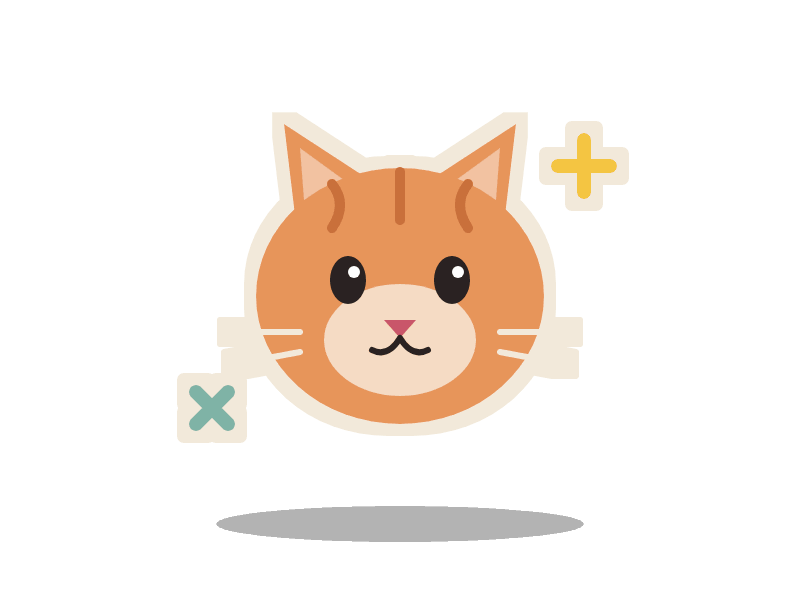
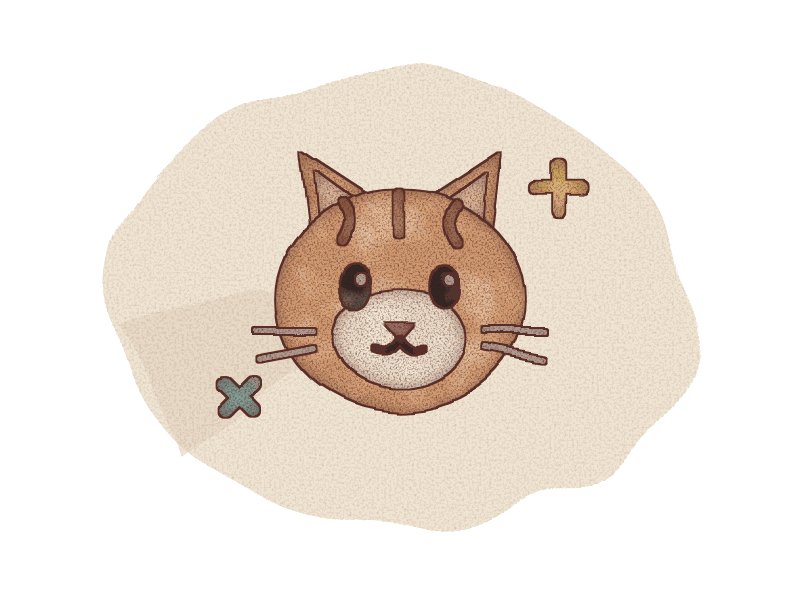
Hand-drawn style covers, a hackathon winner badge, two-column Arts on phones
The placeholder covers are redrawn in a hand-drawn look (ink outlines,
watercolour fills, a paper blob behind each). Award projects get a
"Hackathon winner" badge on the corner of their cover, one PNG Mami can
replace. The Short About's Arts row is two to a row on phones.

Claude-Session: https://claude.ai/code/session_01HxKcS5wnQzvR66vCB9wedF

diff --git a/assets/css/styles.css b/assets/css/styles.css
@@ -1107,6 +1107,7 @@ main iframe {
 }
 
 .card-cover {
+  position: relative;
   display: grid;
   place-items: center;
   aspect-ratio: 4 / 3;
@@ -1133,6 +1134,19 @@ main iframe {
 
 .card-cover.is-shot img {
   object-fit: cover;
+}
+
+/* The "Hackathon winner" badge (Mami's request, November 2026, like
+   Devpost's WINNER corner but drawn): on the cover's top left corner of
+   every award project, a little tilted. It never moves. */
+.card-cover .card-badge {
+  position: absolute;
+  top: -6px;
+  left: -6px;
+  width: 78px;
+  height: 78px;
+  object-fit: contain;
+  transform: rotate(-8deg);
 }
 
 .card-meta {
@@ -1474,10 +1488,12 @@ main iframe {
 }
 
 /* The Short About's Arts row (art-picks.html, Mami's request, November
-   2026): one square per Arts subcategory side by side, two columns while
-   Procreate is empty, three once it has a piece. */
-.art-picks-3 {
-  grid-template-columns: repeat(3, minmax(0, 1fr));
+   2026): three squares to a row from 601px, so each row is one
+   subcategory; two to a row on phones (Mami's request). */
+@media (min-width: 601px) {
+  .art-picks-3 {
+    grid-template-columns: repeat(3, minmax(0, 1fr));
+  }
 }
 
 /* Content coming in (Mami's request, November 2026: "content should
@@ -2191,11 +2207,6 @@ figcaption {
   .gallery-title {
     padding: 40px var(--space-8) var(--space-8);
     font-size: 15px;
-  }
-
-  .art-picks-3 .gallery-title {   /* squares a third of a phone wide */
-    padding: 28px 6px 6px;
-    font-size: 13px;
   }
 
   .photo-grid {

diff --git a/_includes/card-grid.html b/_includes/card-grid.html
@@ -11,6 +11,8 @@
   the card shows the project's screenshot instead of a broken picture, and
   the build warns (content_check.rb).
 {%- endcomment -%}
+{%- comment -%} The "Hackathon winner" badge on award projects' covers: one picture, assets/covers/badge-hackathon-winner.png (delete the file and the badge is gone). {%- endcomment -%}
+{%- assign winner_badge = site.static_files | where: "path", "/assets/covers/badge-hackathon-winner.png" | first -%}
 <div class="card-grid">
   {% for item in include.items %}
   {%- assign cover = nil -%}
@@ -27,6 +29,9 @@
       <img src="{{ cover_path | relative_url }}" alt="" width="800" height="600" loading="lazy" decoding="async">
       {%- elsif item.image %}
       {% include picture.html src=item.image alt="" sizes="(max-width: 600px) 100vw, 340px" %}
+      {%- endif %}
+      {%- if item.award and winner_badge %}
+      <img class="card-badge" src="{{ winner_badge.path | relative_url }}" alt="" width="400" height="400" loading="lazy" decoding="async">
       {%- endif %}
     </div>
     <h3 class="card-title">{% include link-title.html text=item.title %}{% if item.status == "ongoing" %} <span class="pill pill-status">In progress</span>{% endif %}</h3>

diff --git a/CLAUDE.md b/CLAUDE.md
@@ -287,7 +287,10 @@ after a card Mami liked). Everything else stays square.
   there are placeholders Claude drew on 10 November 2026 (an object each:
   coins for Better, a leaf for Green, a duck for DogDuckGo, a stopwatch for
   MyTime, a chart board for ARAP Databook...), 800×600 with a see-through
-  background and a cream sticker edge like the logo. Mami asked for the
+  background. Mami found the first set (flat, sticker-edged) not nice
+  enough and asked for the hand-drawn look of maggieappleton.com's
+  illustrations, so they're redrawn that way: thin wobbly ink outlines,
+  muted watercolour fills with grain, each on a pale paper blob. Mami asked for the
   Power BI logo on ARAP Databook's; brand logos aren't drawn, so it's a
   generic chart. A cover is shown as it is (an `<img>` with `alt=""`, the
   card's text names the link), not through `picture.html` /
@@ -296,6 +299,16 @@ after a card Mami liked). Everything else stays square.
   exported at a sensible size (about 1200 px wide, see-through background).
   A project without `cardImg` shows its screenshot instead, cropped to fill
   the 4:3 space, with a hairline and `--radius-thumb`.
+- **Hackathon winner badge** (Mami's request, November 2026, like
+  Devpost's WINNER corner "but a really good one, like an illustration"):
+  every project with an `award` gets
+  `assets/covers/badge-hackathon-winner.png` on the top left corner of its
+  cover (78px, tilted 8°, `alt=""` since the award line says it; it never
+  moves). Today's is Claude's placeholder in the covers' style (a gold
+  rosette, "HACKATHON Winner", two ribbon tails); Mami will draw the real
+  one: replace the file under the same name (square, see-through
+  background). Delete the file and the badge is gone. This is the one thing
+  allowed over a cover; the old foil band stays gone.
 - Post cards (`post-list.html`; Mami: "the blog seems to be perfect, no
   change"): the serif title with its 🔗, the description, then the date
   and reading time, muted ("Feb 8, 2026 · 2 min read"). A post gets a
@@ -482,7 +495,7 @@ Mami wants this serif for both):
   projects by date, with "See all N projects"), **Arts** (Mami's request,
   November 2026: six pieces, the three most recent by date from Hand drawn
   and the three most recent from Procreate, each set in its gallery order,
-  three to a row, with "See all art"; no animations; `art-picks.html`) and
+  three to a row (two on phones, Mami's request), with "See all art"; no animations; `art-picks.html`) and
   **Blog** (the two most recent posts, with "See all blog posts"). The
   sections follow the nav's order.
 - **Long (`/bio/`, `bio.md`)**: the long Bio text (Markdown from `about.yml`,
